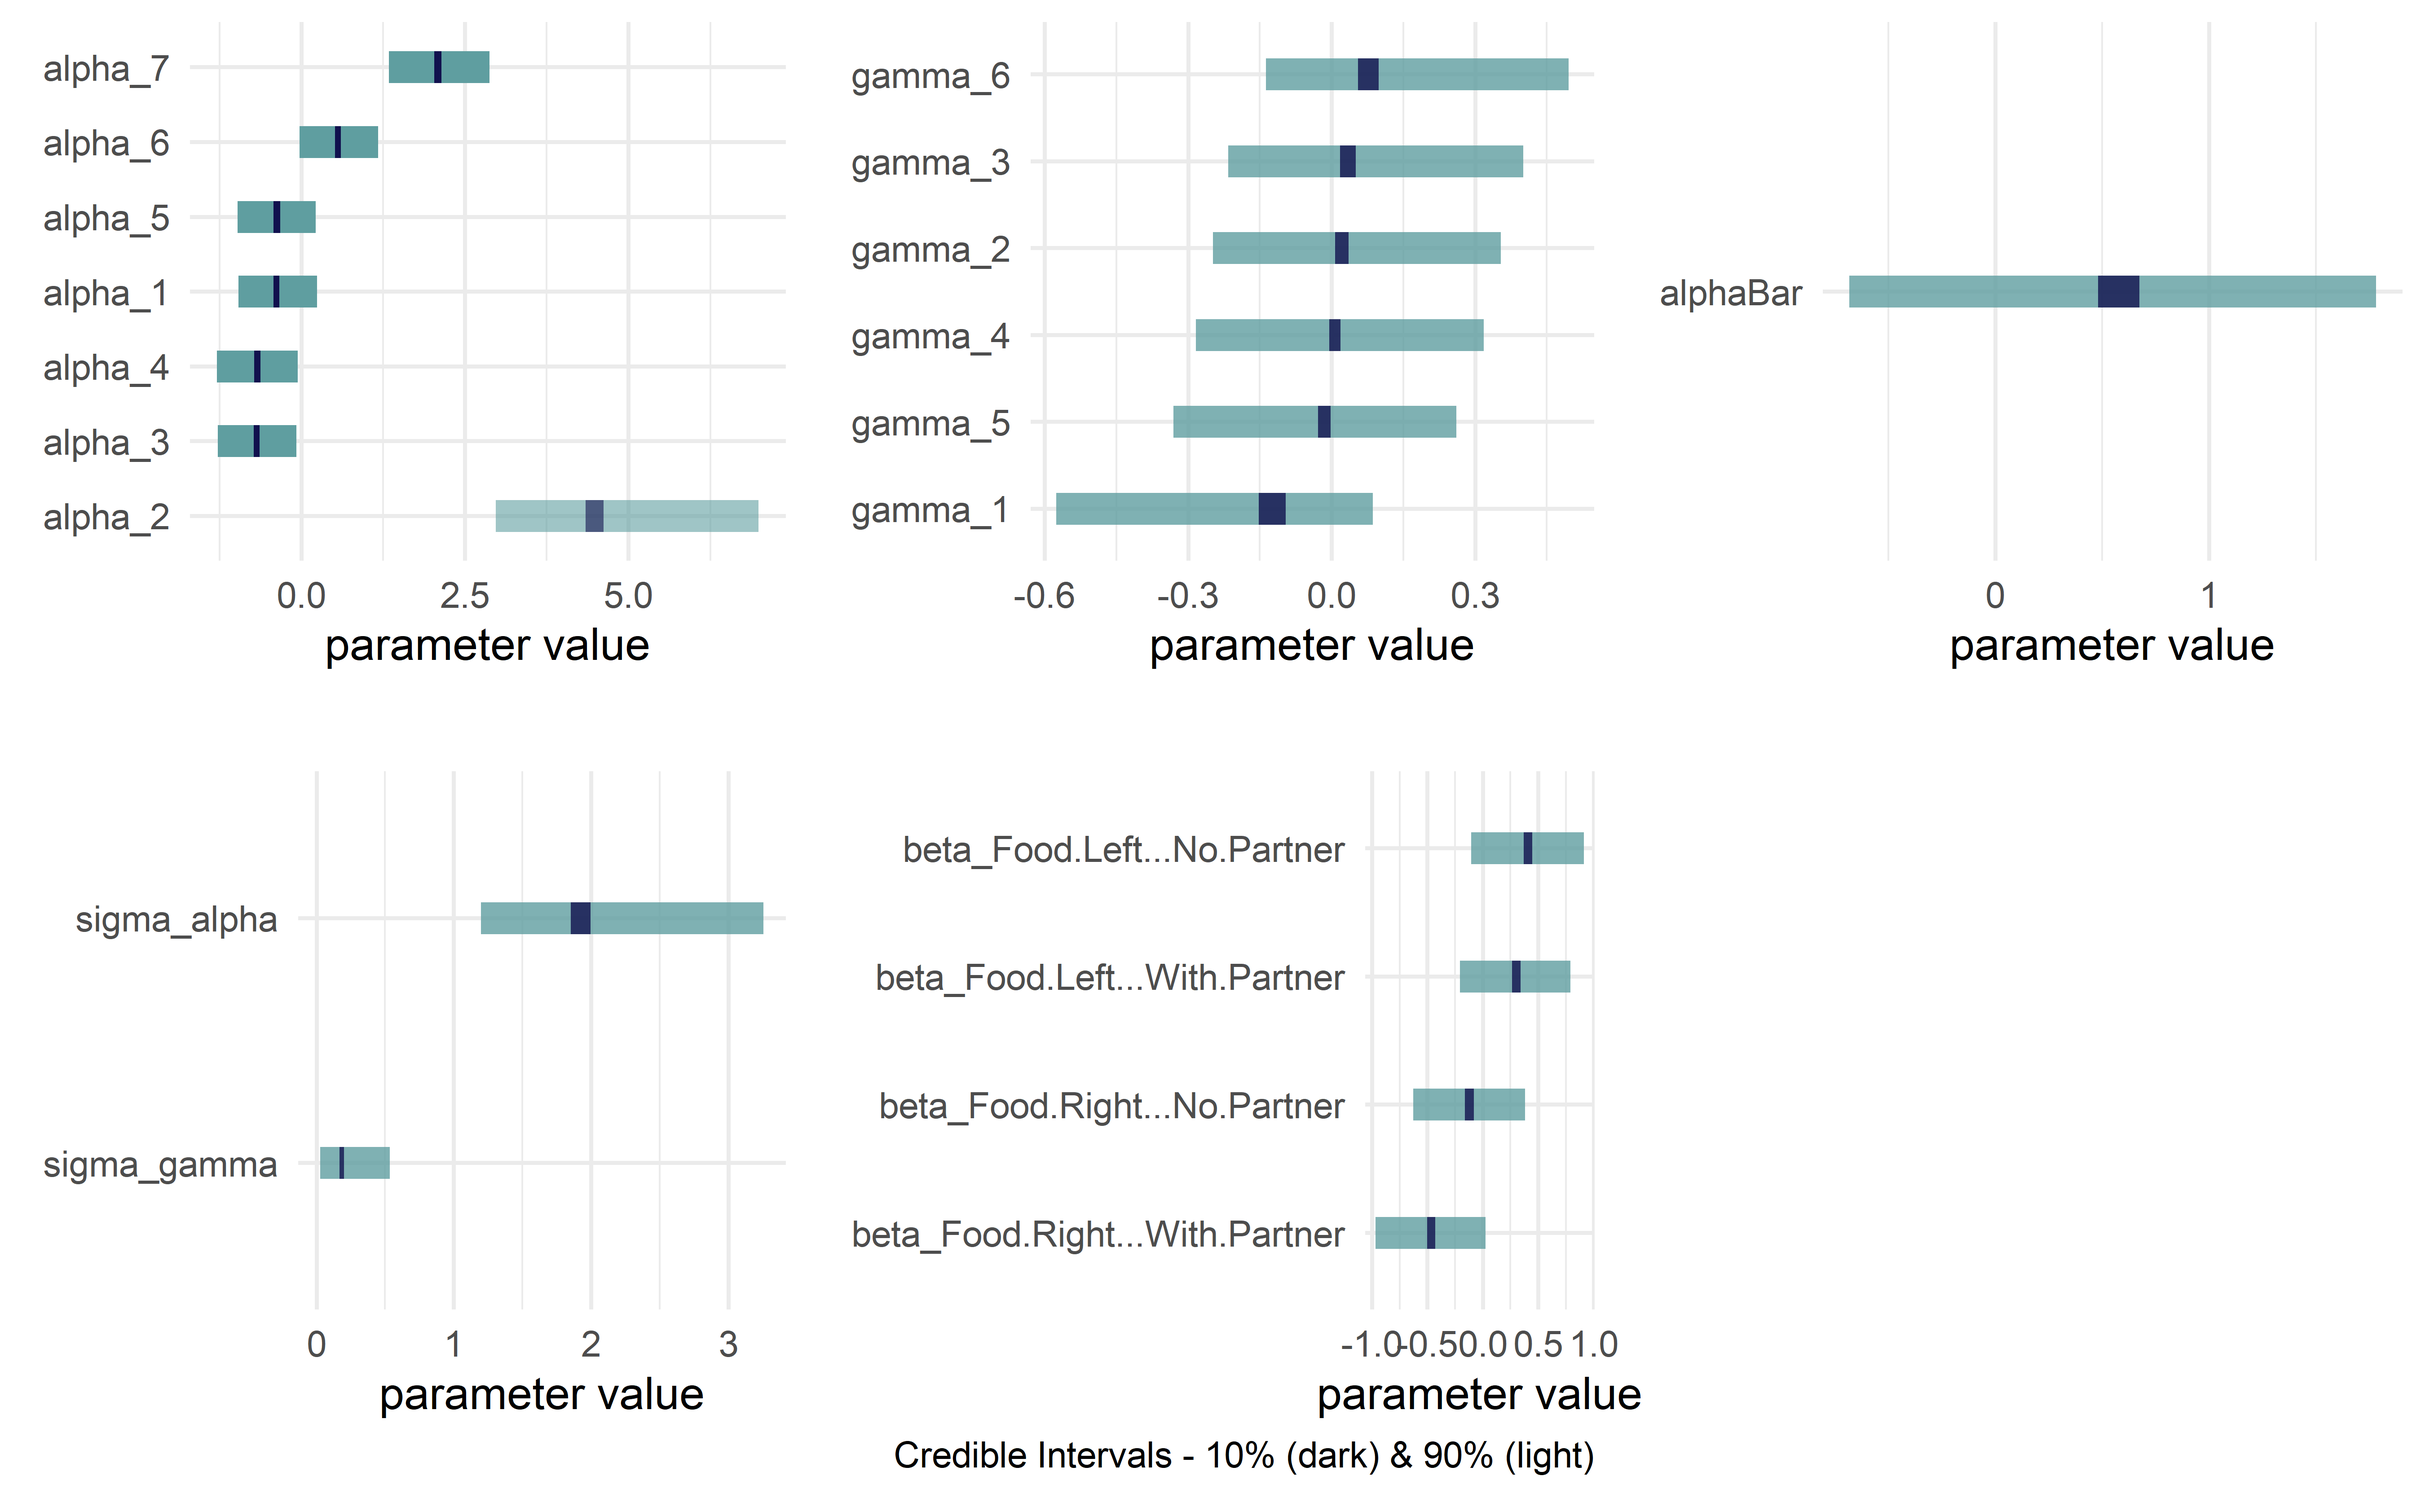
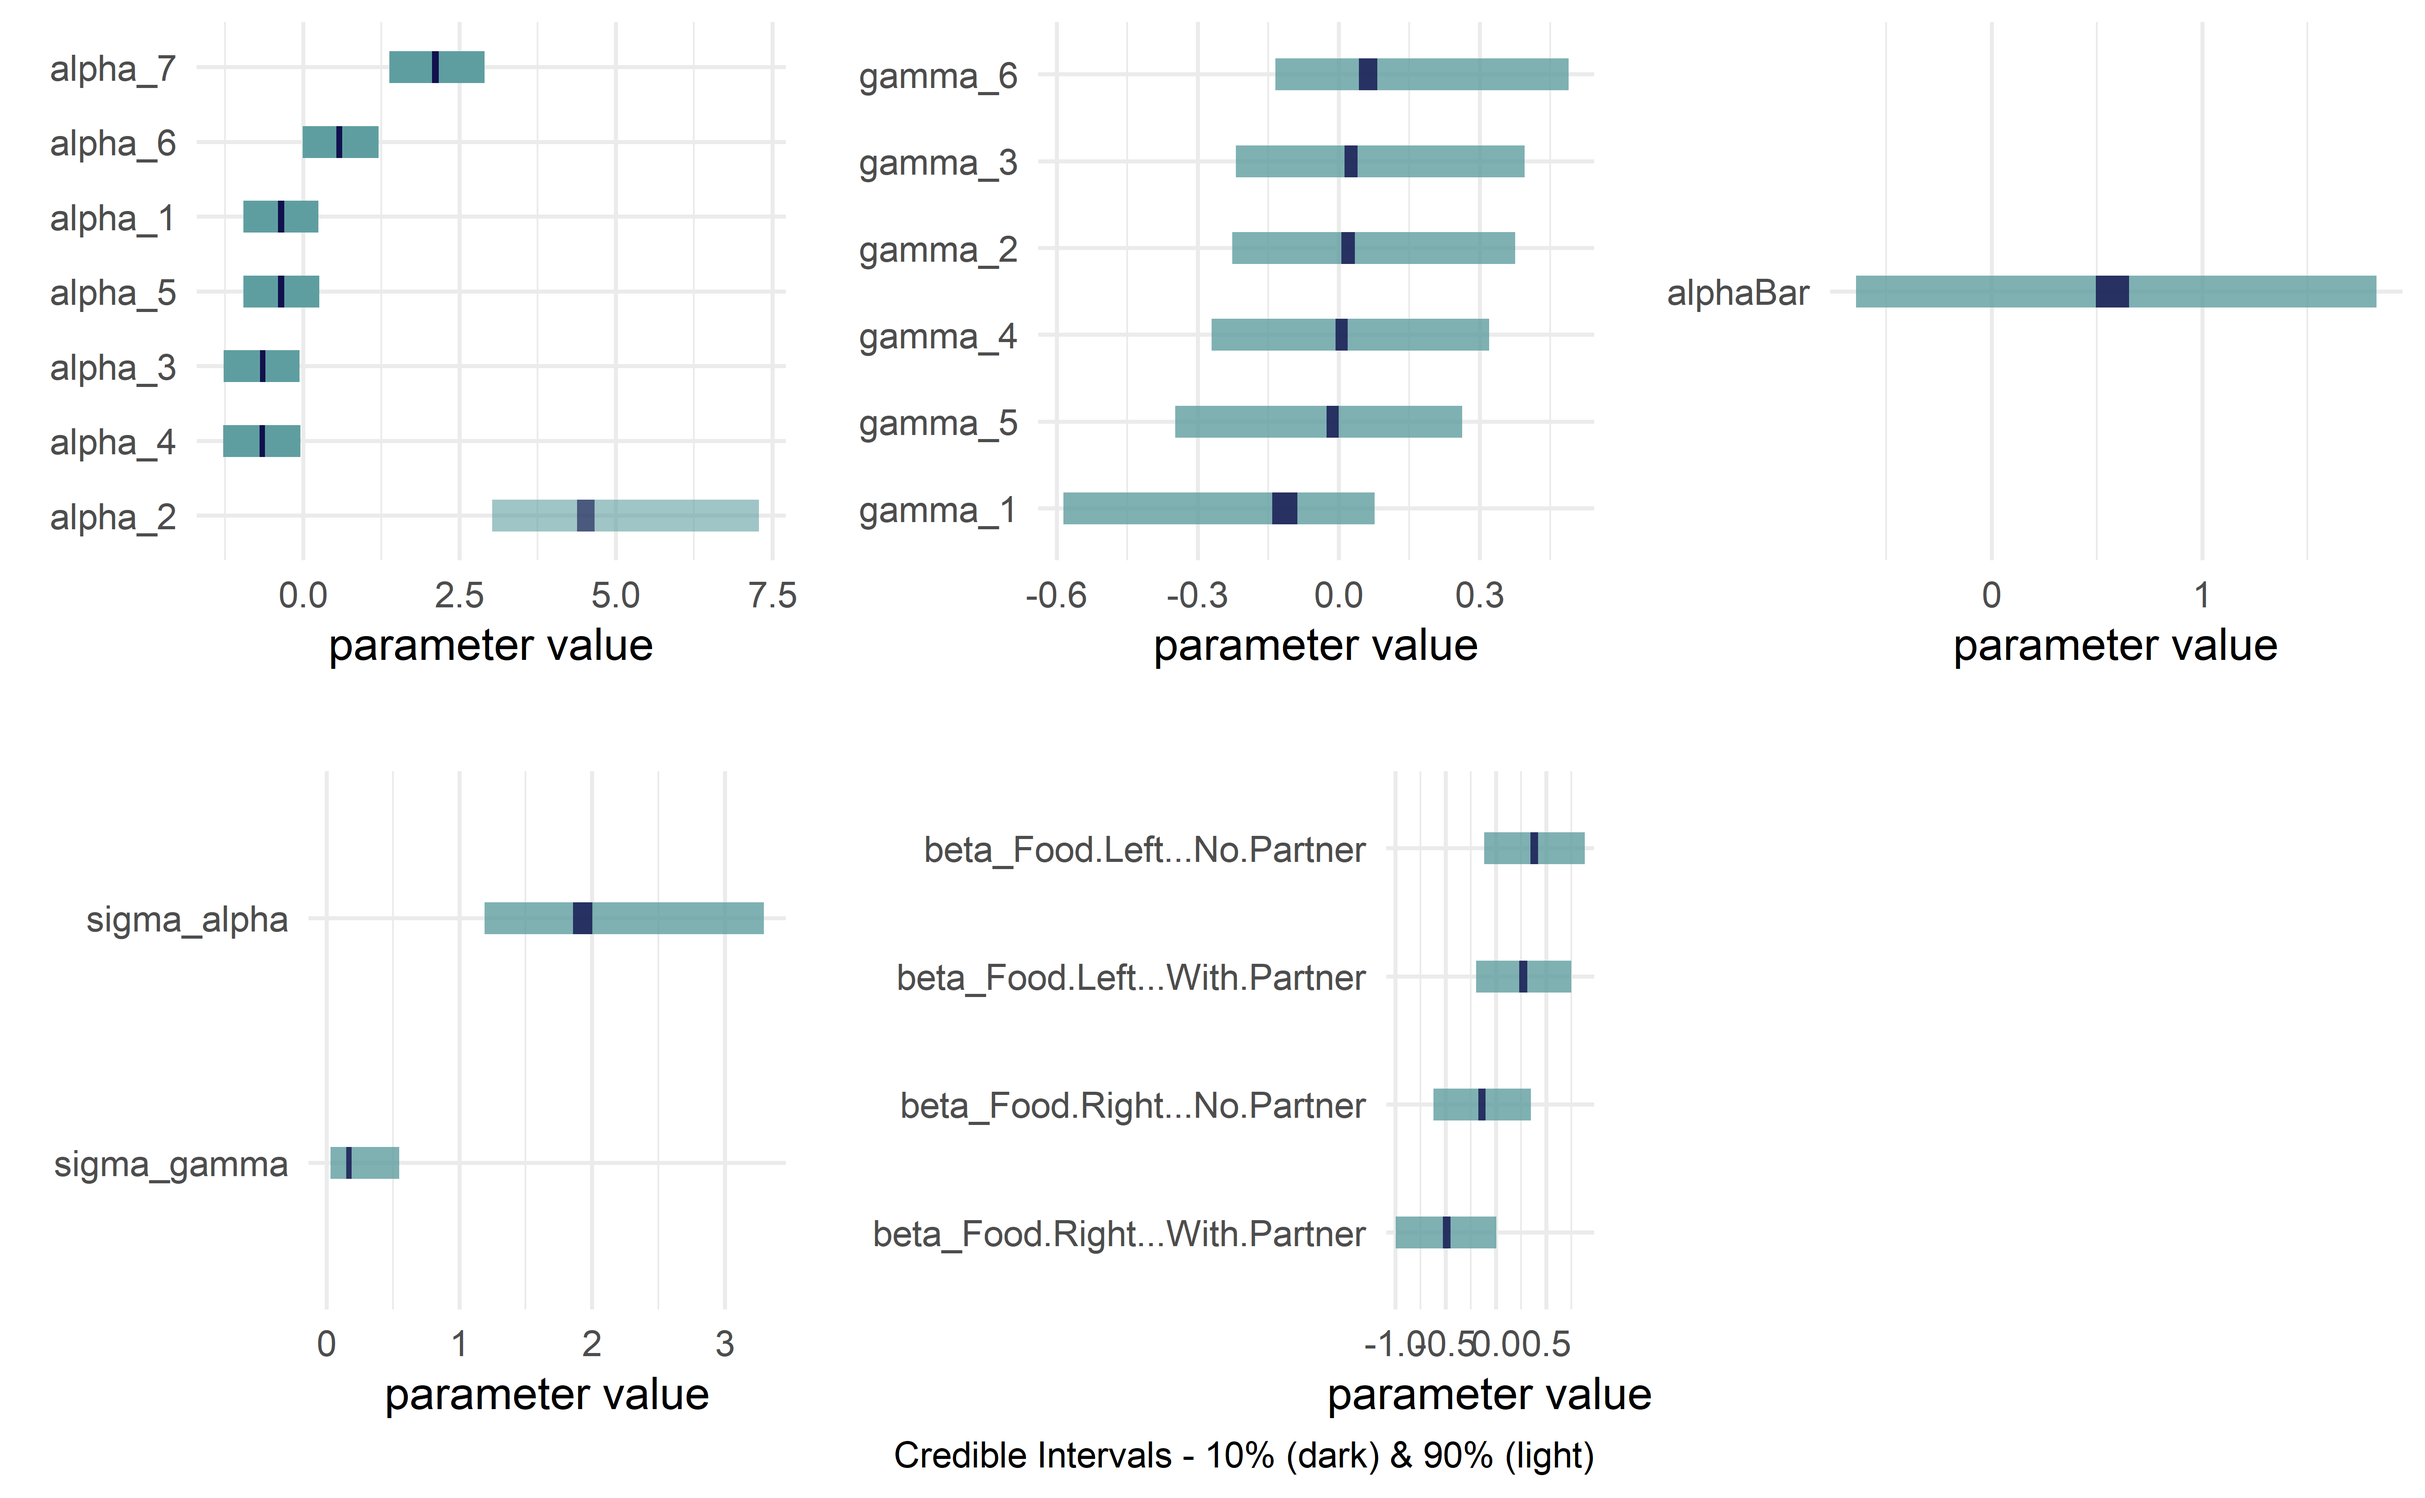
fix installation bug and pandas based future warning issues.

diff --git a/README.md b/README.md
@@ -182,16 +182,16 @@ drawsDF  ### see top of data frame
 #> # A tibble: 4,000 × 4
 #>    theta_Toyota.Corolla theta_Subaru.Outback theta_Kia.Forte theta_Jeep.Wrangler
 #>                   <dbl>                <dbl>           <dbl>               <dbl>
-#>  1                0.192                0.633           0.210               0.794
-#>  2                0.215                0.602           0.282               0.892
-#>  3                0.200                0.621           0.299               0.890
-#>  4                0.223                0.621           0.213               0.778
-#>  5                0.220                0.611           0.261               0.788
-#>  6                0.228                0.619           0.247               0.811
-#>  7                0.228                0.619           0.247               0.811
-#>  8                0.227                0.635           0.231               0.810
-#>  9                0.222                0.600           0.291               0.888
-#> 10                0.205                0.605           0.236               0.841
+#>  1                0.214                0.609           0.199               0.844
+#>  2                0.228                0.563           0.232               0.818
+#>  3                0.217                0.611           0.255               0.848
+#>  4                0.206                0.648           0.261               0.876
+#>  5                0.187                0.624           0.313               0.819
+#>  6                0.166                0.606           0.229               0.848
+#>  7                0.213                0.622           0.234               0.839
+#>  8                0.206                0.588           0.253               0.855
+#>  9                0.211                0.646           0.219               0.855
+#> 10                0.196                0.590           0.271               0.840
 #> # ℹ 3,990 more rows
 ```
 
@@ -237,9 +237,9 @@ numpyroCode = graph %>% dag_numpyro(mcmc = FALSE)
 #> ## note that above is from JAX numpy package, not numpy.
 #> 
 #> y = np.array(r.carModelDF.getCard)   #DATA
-#> x      = pd.factorize(r.carModelDF.carModel,use_na_sentinel=True)[0]   #DIM
+#> x      = pd.factorize(np.array(r.carModelDF.carModel),use_na_sentinel=True)[0]   #DIM
 #> x_dim  = len(np.unique(x))   #DIM
-#> x_crd  = pd.factorize(r.carModelDF.carModel,use_na_sentinel=True)[1]   #DIM
+#> x_crd  = pd.factorize(np.array(r.carModelDF.carModel),use_na_sentinel=True)[1]   #DIM
 #> def graph_model(y,x):
 #>  ## Define random variables and their relationships
 #>  with npo.plate('x_dim',x_dim):
@@ -250,7 +250,7 @@ numpyroCode = graph %>% dag_numpyro(mcmc = FALSE)
 #> 
 #> # computationally get posterior
 #> mcmc = MCMC(NUTS(graph_model), num_warmup = 1000, num_samples = 4000)
-#> rng_key = random.PRNGKey(seed = 111)
+#> rng_key = random.PRNGKey(seed = 1234567)
 #> mcmc.run(rng_key,y,x)
 #> drawsDS = az.from_numpyro(mcmc,
 #>  coords = {'x_dim': x_crd},

diff --git a/NEWS.md b/NEWS.md
@@ -1,4 +1,5 @@
-# causact (development version)
+# causact 0.5.4
+* patch release to fix installation issues. The default installation workflow now uses `numpyro==0.13.2` to avoid `ModuleNotFoundError: No module named 'jax.linear_util'`.
 
 # causact 0.5.3
 * Fixed bug where beta distribution was being treated as Laplace distribution.

diff --git a/cran-comments.md b/cran-comments.md
@@ -1,7 +1,7 @@
-This is a patch release to fix two small bugs.
+This is a patch release to fix a bug with installing python dependencies.
 
 ## Test environments
-* local R installation, R 4.3.1
+* local R installation, R 4.3.2
 * ubuntu 16.04 (on travis-ci), R 4.3.1
 * win-builder (devel)
 
